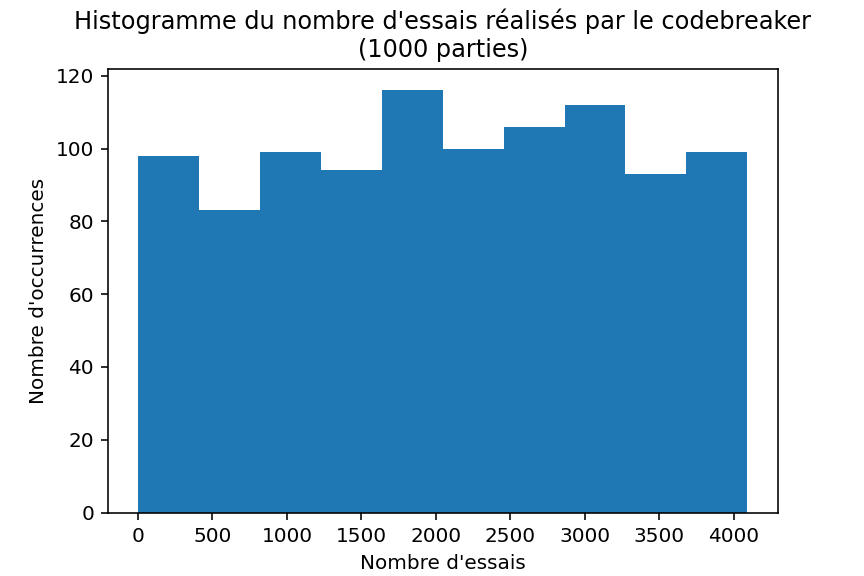
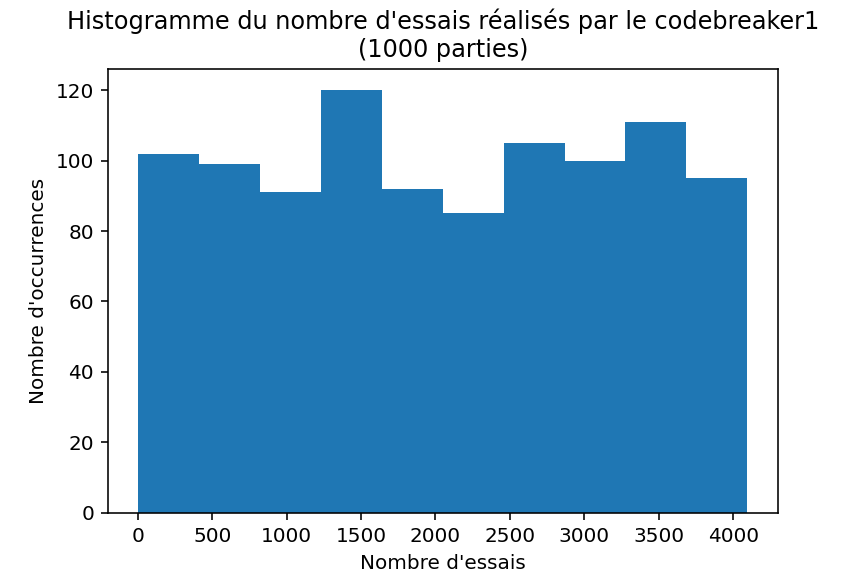
Séance 10 février, arrêté à la question 7

diff --git a/common.py b/common.py
@@ -28,9 +28,28 @@ def donner_possibles(combinaison, evaluation_comb):
     nbr_possibles = len(COLORS)**LENGTH
     possibles = set()
     
+    # Crée toutes les combinaisons possibles
     while len(possibles) < nbr_possibles:
-        element = ''.join(random.choices(couleurs, k=LENGTH))
-        if evaluation(element) == evaluation_comb:
-            possibles.add(element)
+        element = ''.join(random.choices(COLORS, k=LENGTH))
+        possibles.add(element)
+    
+    # Créer une copie pour itérer sur celle-ci
+    all_possibles = possibles.copy()
+    # Retirer ceux qui n'ont pas la même évaluation
+    for element in all_possibles:
+        # Retire les éléments n'ayant pas la même évaluation
+        if evaluation(element, combinaison) != evaluation_comb:
+            possibles.remove(element)
                 
     return possibles
+
+def maj_possibles(possibles, combinaison, evaluation_comb):
+    # Créer une copie pour itérer sur celle-ci
+    old_possibles = possibles.copy()
+    for element in old_possibles:
+        # Retire les éléments n'ayant pas la même évaluation
+        if evaluation(element, combinaison) != evaluation_comb:
+            possibles.remove(element)        
+    
+    return
+    

diff --git a/codebreaker2.py b/codebreaker2.py
@@ -1,0 +1,34 @@
+#!/usr/bin/env python3
+# -*- coding: utf-8 -*-
+
+import random
+import common
+
+
+def init():
+    global derniere_tentative, possibles
+    derniere_tentative = ""
+    possibles = set()
+    print("Initialisation réalisée")
+    return
+
+
+def codebreaker(evaluation_p):
+    # Si aucune évaluation n'a été fournie (premier essai), on effectue juste un essai au hasard
+    if evaluation_p == None:
+        combinaison = ''.join(random.choices(common.COLORS, k=common.LENGTH))
+        derniere_tentative = combinaison
+        return combinaison
+    
+    # On est au deuxième essai, on doit creer l'ensemble des possibles
+    elif len(possibles) == 0:
+        possibles = common.donner_possibles(derniere_tentative, evaluation_p)
+   
+    # Cas général
+    else:
+        maj_possibles(derniere_tentative, evaluation_p)
+    
+    # On prend une solution au hasard parmi les possibles
+    combinaison = random.choice(possibles)
+    
+    return combinaison

diff --git a/q7_perf_codebreaker2.py b/q7_perf_codebreaker2.py
@@ -3,19 +3,19 @@
 
 import play
 import codemaker1
-import codebreaker1
+import codebreaker2
 import matplotlib.pyplot as plt
 
 nbr_parties = 1000 #int(input("Combien de parties ?\n> "))
 parties = []
 
 for _ in range(nbr_parties):
-    parties.append(play.play(codemaker1, codebreaker1, quiet=True))
+    parties.append(play.play(codemaker1, codebreaker2, quiet=True))
 
-plt.title(f"Histogramme du nombre d'essais réalisés par le codebreaker1\n({nbr_parties} parties)")
+plt.title(f"Histogramme du nombre d'essais réalisés par le codebreaker2\n({nbr_parties} parties)")
 plt.xlabel("Nombre d'essais")
 plt.ylabel("Nombre d'occurrences")
 plt.hist(parties)
-plt.savefig(f"q4_histogramme_{nbr_parties}_parties.png")
-plt.savefig(f"q4_histogramme.png")
+plt.savefig(f"q7_histogramme_{nbr_parties}_parties.png")
+plt.savefig(f"q7_histogramme.png")
 plt.show()

diff --git a/codebreaker0.py b/codebreaker0.py
@@ -10,9 +10,6 @@ def init():
     Pour vos codebreaker plus avancés, c'est ici que vous pouvez initialiser
     un certain nombre de variables à chaque début de partie.
     """
-    """
-    possibles = {''.join (random.choices(common.COLORS , k=common.LENGTH))}
-    """
     return
 
 
@@ -22,8 +19,5 @@ def codebreaker(evaluation_p):
     combinaison qu'on a proposée (et vaut None si c'est le premier coup de la
     partie). Cette version triviale n'utilise pas cette information, puisqu'
     elle joue au hasard.
-    """
-    """
-    possibles = common.donner_possibles(common.combinaison,common.evaluation)
     """
     return ''.join(random.choices(common.COLORS, k=common.LENGTH))

diff --git a/q3_esperance.py b/q3_esperance.py
@@ -12,7 +12,7 @@ parties = []
 for _ in range(nbr_parties):
     parties.append(play.play(codemaker1, codebreaker0, quiet=True))
 
-plt.title(f"Histogramme du nombre d'essais réalisés par le codebreaker\n({nbr_parties} parties)")
+plt.title(f"Histogramme du nombre d'essais réalisés par le codebreaker0\n({nbr_parties} parties)")
 plt.xlabel("Nombre d'essais")
 plt.ylabel("Nombre d'occurrences")
 plt.hist(parties)
